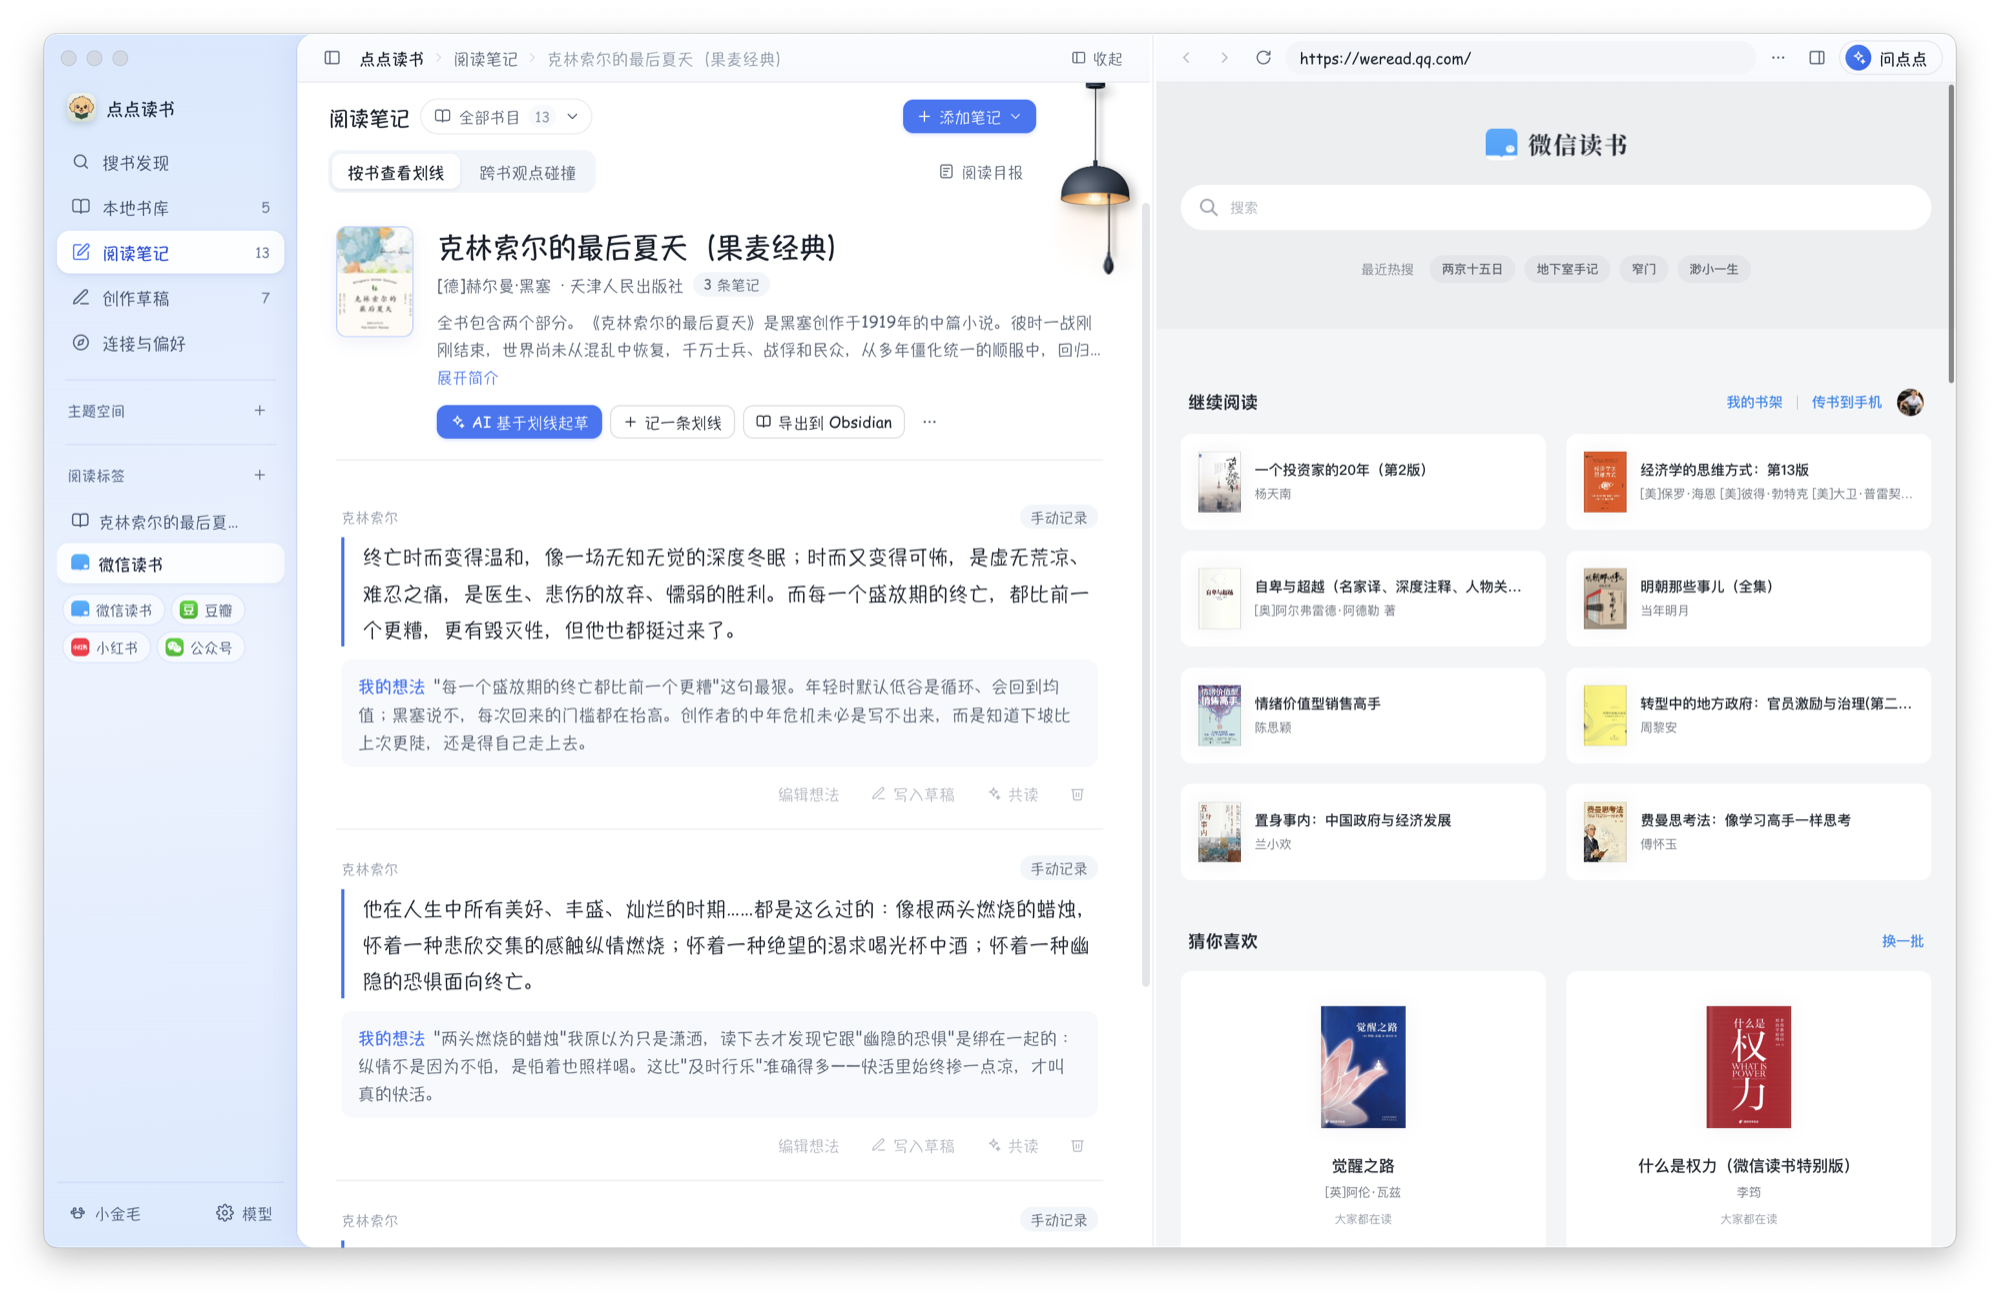
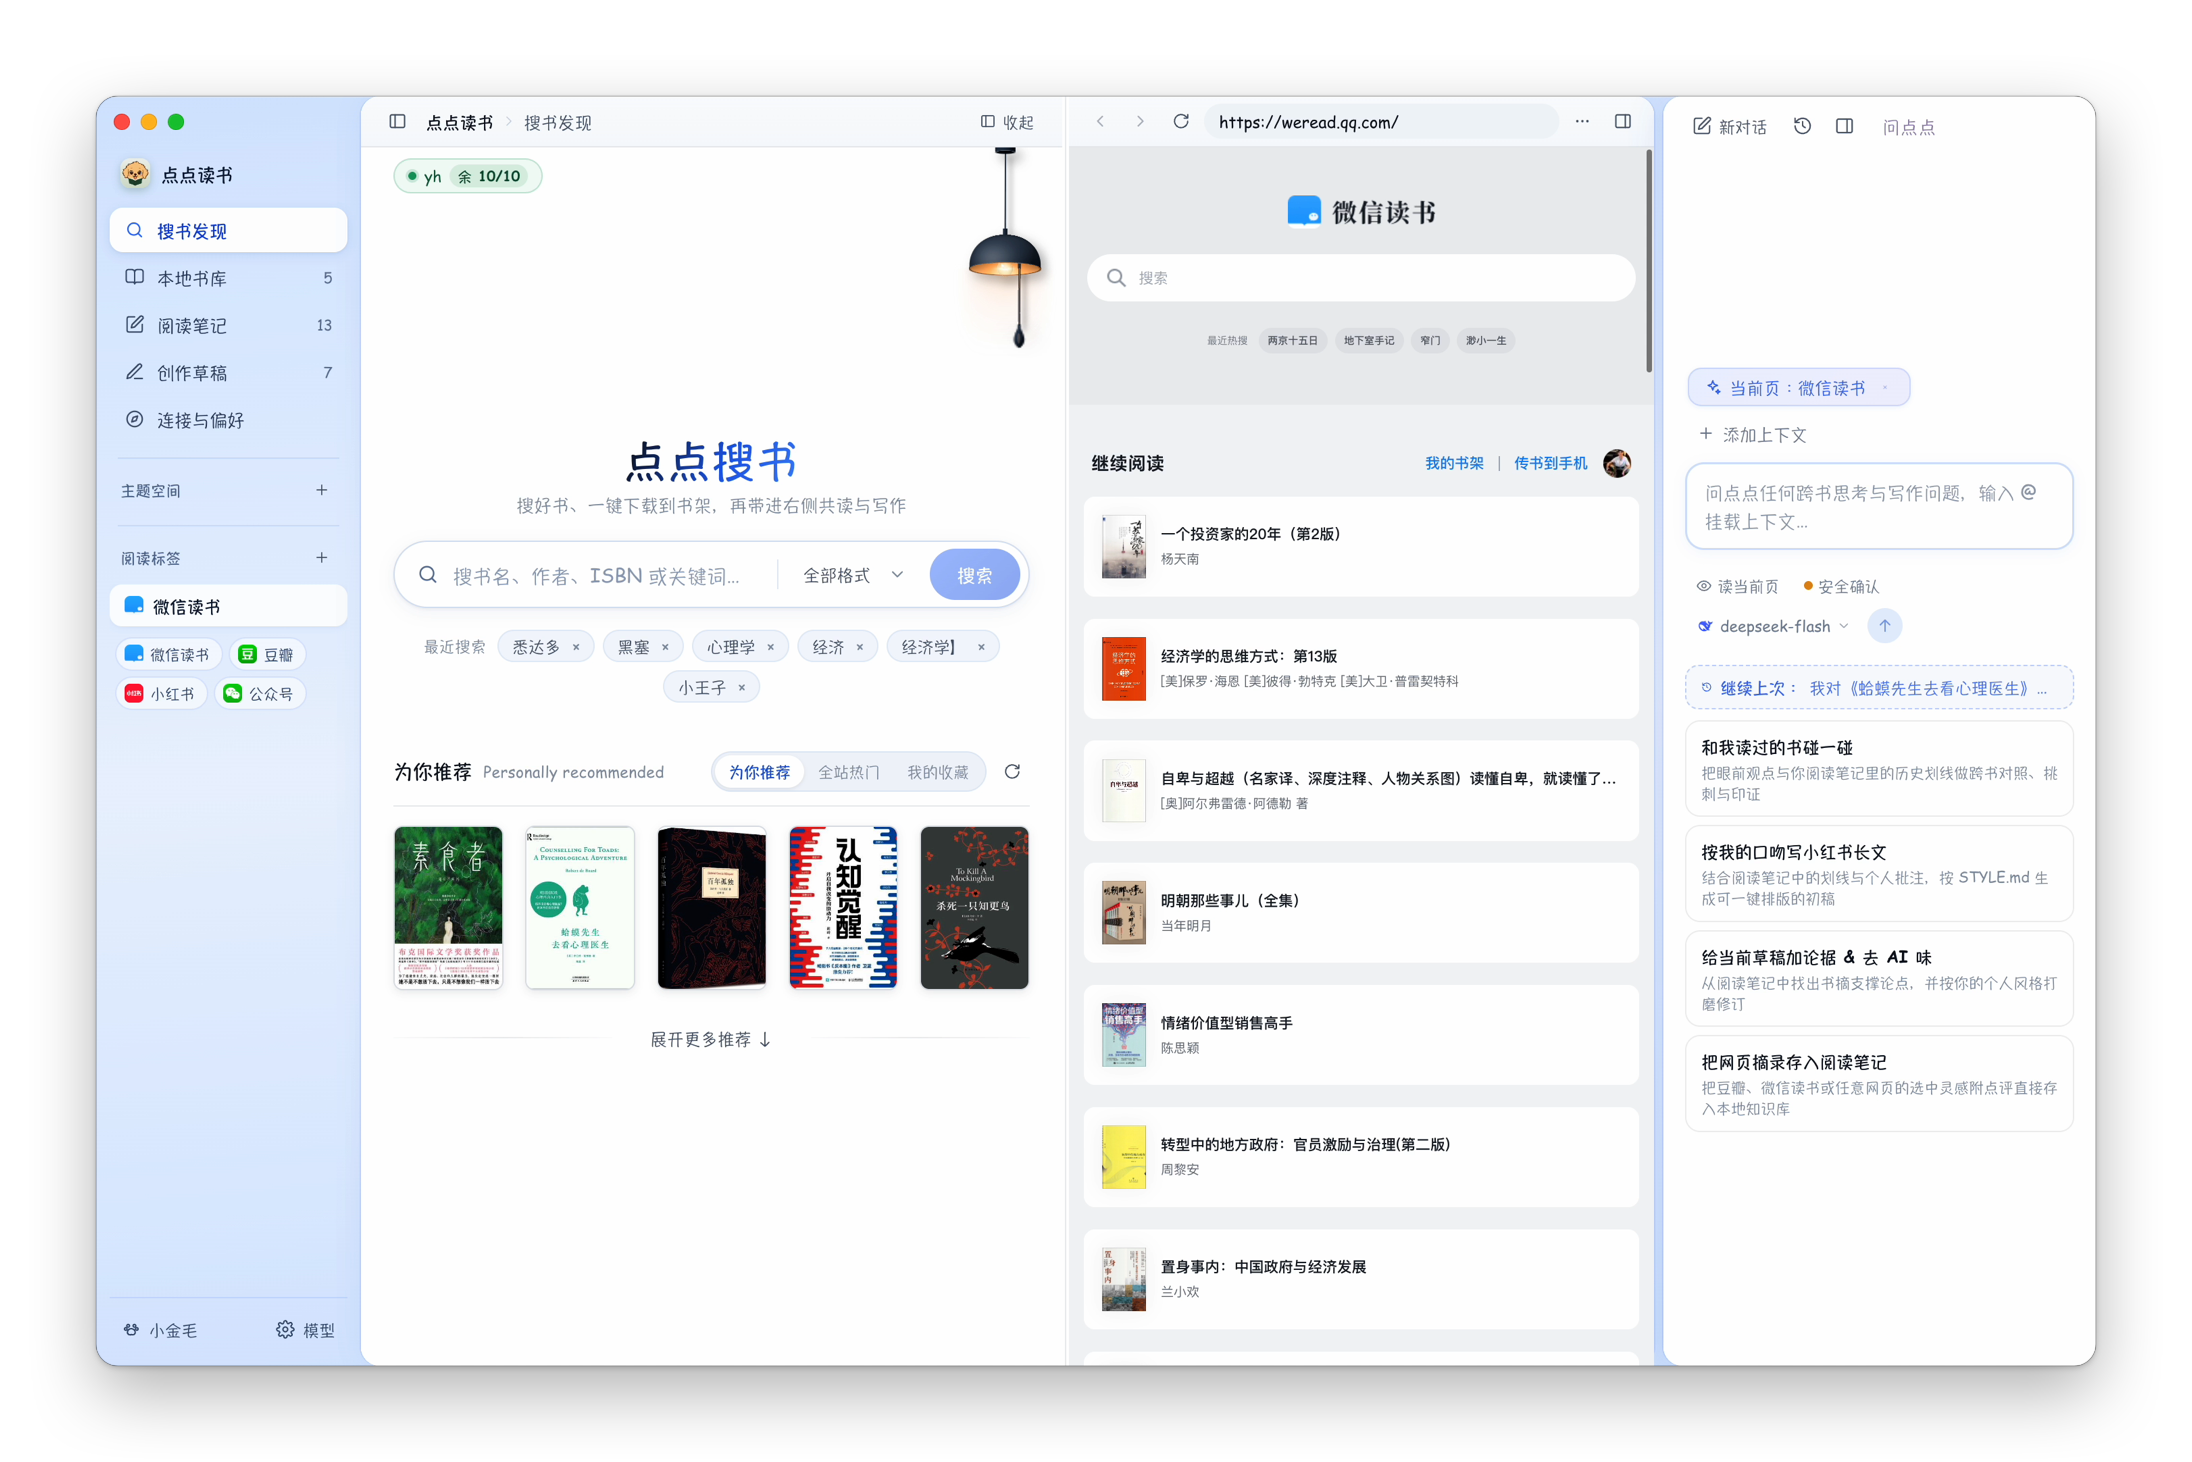
docs: lead with the discover page, move the notes shot to feature 6
The README now opens on the discover page (search, the WeRead shelf and the 问点点 panel), the
same view as the homepage hero, taken from the original recording at full resolution. The
《克林索尔的最后夏天》 notes page moves to feature 6, replacing the narrow crop of the same page.

Both screenshots in feature 6 and the top one share one frame (rounded corners and a soft shadow
on a transparent background, drawn with CoreGraphics), so they show the window at the same size
and read well on GitHub's light and dark themes. The framed Obsidian shot is a new PNG; the
homepage keeps the plain JPEG because it draws its own frame.

diff --git a/README.en.md b/README.en.md
@@ -72,9 +72,9 @@ flowchart LR
 - After choosing an Obsidian vault, export a book's notes or a draft as Markdown in one click. Renames and moves inside Obsidian are tracked; if you edited the same note by hand in Obsidian, a `.diandian-conflict.md` copy is written instead of overwriting your changes.
 - The desktop golden retriever brings back one old highlight a day, and `⌘⇧D` captures whatever sentence is on your clipboard.
 
-<p align="center"><img src="docs/screenshots/feature-6-notes.png" width="640" alt="Reading notes with highlights and thoughts, exported to Obsidian in one click" /></p>
+<p align="center"><img src="docs/screenshots/feature-6-notes.png" width="860" alt="Reading notes with highlights and thoughts, exported to Obsidian in one click" /></p>
 
-<p align="center"><img src="docs/screenshots/feature-6-obsidian.jpg" width="860" alt="Reading notes in diandianreading (left) and the same book exported to Obsidian (right)" /></p>
+<p align="center"><img src="docs/screenshots/feature-6-obsidian.png" width="860" alt="Reading notes in diandianreading (left) and the same book exported to Obsidian (right)" /></p>
 
 ### 7. Built on DeepSeek Harness, compatible with Harness plugins
 - The AI companion runs on [DeepSeek Harness](https://github.com/deepseek-ai/deepseek-harness), with DeepSeek or any OpenAI-compatible model.

diff --git a/README.md b/README.md
@@ -72,9 +72,9 @@ flowchart LR
 - 选好 Obsidian 笔记库后，一本书的笔记或一篇草稿可一键导出为 Markdown。在 Obsidian 里改名、移动目录都能跟踪到；如果你在 Obsidian 里手动改过同一篇，会另存一份 `.diandian-conflict.md`，不会覆盖你的修改。
 - 桌面上的小金毛每天推一条旧划线给你，`⌘⇧D` 可随手摘录剪贴板里的句子。
 
-<p align="center"><img src="docs/screenshots/feature-6-notes.png" width="640" alt="阅读笔记：划线和想法，一键导出到 Obsidian" /></p>
+<p align="center"><img src="docs/screenshots/feature-6-notes.png" width="860" alt="阅读笔记：划线和想法，一键导出到 Obsidian" /></p>
 
-<p align="center"><img src="docs/screenshots/feature-6-obsidian.jpg" width="860" alt="左边是点点读书的阅读笔记，右边是导出到 Obsidian 的同一本书" /></p>
+<p align="center"><img src="docs/screenshots/feature-6-obsidian.png" width="860" alt="左边是点点读书的阅读笔记，右边是导出到 Obsidian 的同一本书" /></p>
 
 ### 7. 基于 DeepSeek Harness，兼容 Harness 插件生态
 - AI 助手运行在 [DeepSeek Harness](https://github.com/deepseek-ai/deepseek-harness) 上，模型可接 DeepSeek 或任意 OpenAI 兼容接口。
